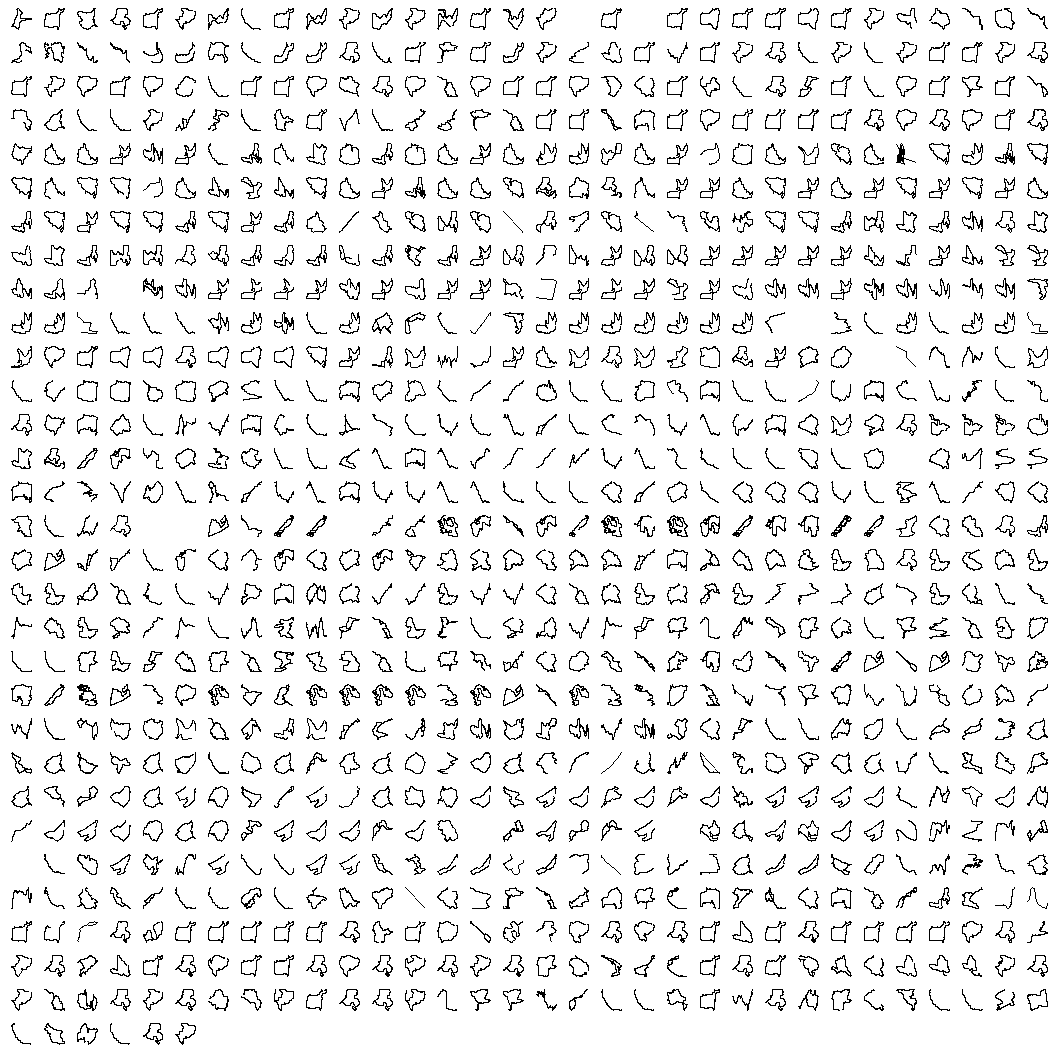
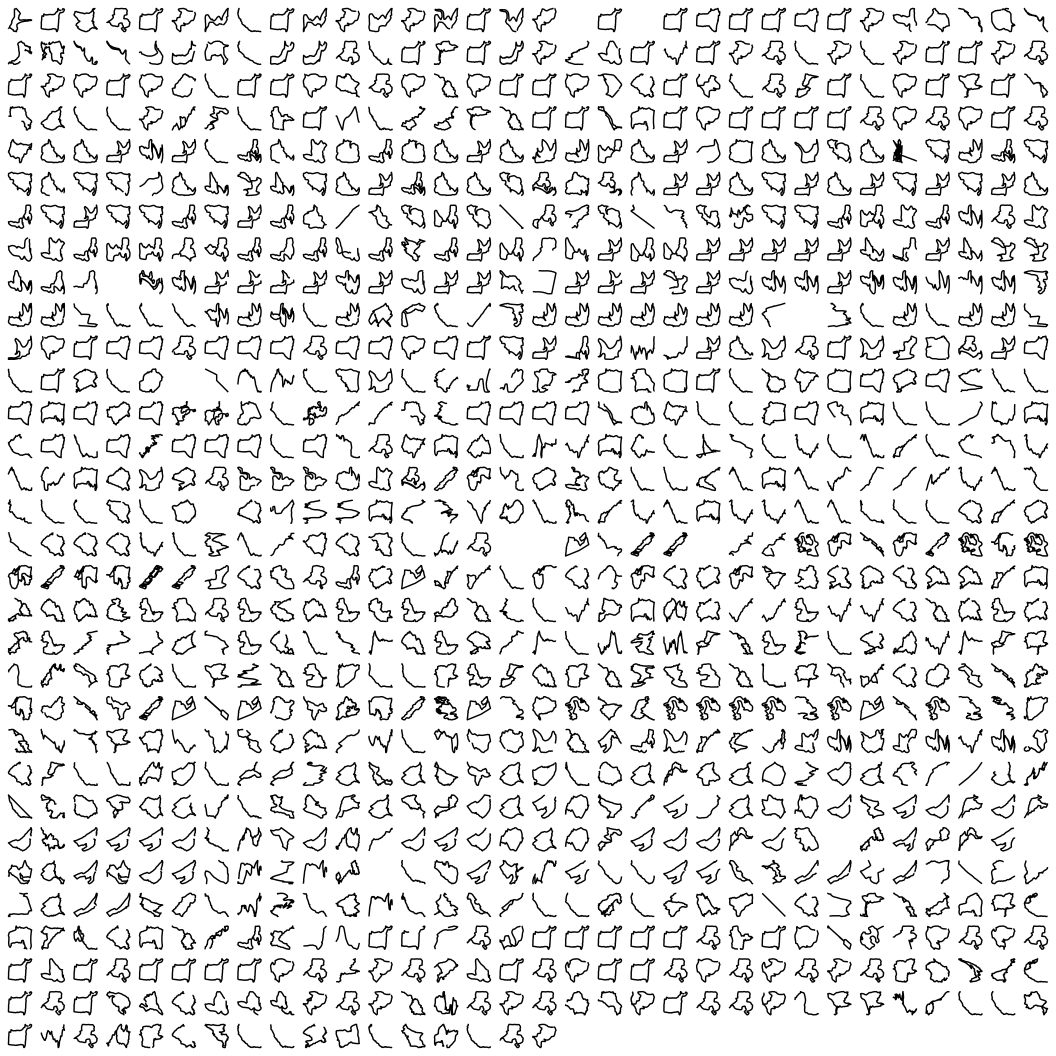
Data Update

Changed region(s): [[0.0, 0.0, 1.0, 1.0]]

diff --git a/README.md b/README.md
@@ -13,7 +13,6 @@ You will need the following packages:
 
     library(shinydashboard)
     library(reactablefmtr)
-    library(Microsoft365R)
     library(tarchetypes)
     library(conflicted)
     library(reactable)
@@ -47,10 +46,10 @@ package. You can learn more about the package and its functionalities
 
 In order to reproduce the analysis, perform the following steps:
 
--   Clone the repository: <https://github.com/duju211/pin_strava>
--   Install the packages listed in the `libraries.R` file
--   Run the target pipeline by executing `targets::tar_make()` command
--   Follow the instructions printed in the console
+- Clone the repository: <https://github.com/duju211/pin_strava>
+- Install the packages listed in the `libraries.R` file
+- Run the target pipeline by executing `targets::tar_make()` command
+- Follow the instructions printed in the console
 
 ## Target Plan
 
@@ -146,26 +145,26 @@ The resulting data frame consists of one row per activity. Make sure
 that all ID columns have a character format and improve the column
 names.
 
-    ## # A tibble: 967 × 58
+    ## # A tibble: 1,010 × 59
     ##    resource_state athlete$id name              distance moving_time elapsed_time
     ##             <int>      <int> <chr>                <dbl>       <int>        <int>
-    ##  1              2   26845822 Hard Fork            5348         2614         2622
-    ##  2              2   26845822 Zeit Verbrechen      5369.        2382         2396
-    ##  3              2   26845822 CopaTS               5399.        2420         2420
-    ##  4              2   26845822 Foggy Vergecast      4994.        2367         2525
-    ##  5              2   26845822 Hello America        5372.        2484         2490
-    ##  6              2   26845822 Alles Gesagt         5416.        2517         2545
-    ##  7              2   26845822 Hard Fork            4586.        2191         2211
-    ##  8              2   26845822 Icy Holy Three K…    5954.        3216         3345
-    ##  9              2   26845822 Icy New Year         4802.        2291         2311
-    ## 10              2   26845822 Wirecard             4598.        2049         2134
-    ## # ℹ 957 more rows
-    ## # ℹ 53 more variables: athlete$resource_state <int>,
+    ##  1              2   26845822 Ct                   5349.        2864         2907
+    ##  2              2   26845822 Crime Time           5409         2929         2999
+    ##  3              2   26845822 Conan needs a fr…    5410         2957         3051
+    ##  4              2   26845822 Hard Fork            5299.        2900         2955
+    ##  5              2   26845822 Vergecast            5402.        2874         3017
+    ##  6              2   26845822 Vergecast            5426.        3090         3228
+    ##  7              2   26845822 Ball you need is…    5324.        2930         2999
+    ##  8              2   26845822 1975                25976.        4593         5067
+    ##  9              2   26845822 Kolibri             12581.        1671         1735
+    ## 10              2   26845822 Ball you need is…    5257.        2768         2793
+    ## # ℹ 1,000 more rows
+    ## # ℹ 54 more variables: athlete$resource_state <int>,
     ## #   total_elevation_gain <dbl>, type <chr>, sport_type <chr>,
-    ## #   workout_type <int>, id <chr>, start_date <dttm>, start_date_local <chr>,
-    ## #   timezone <chr>, utc_offset <dbl>, location_city <lgl>,
-    ## #   location_state <lgl>, location_country <chr>, achievement_count <int>,
-    ## #   kudos_count <int>, comment_count <int>, athlete_count <int>, …
+    ## #   workout_type <int>, device_name <chr>, id <chr>, start_date <dttm>,
+    ## #   start_date_local <chr>, timezone <chr>, utc_offset <dbl>,
+    ## #   location_city <lgl>, location_state <lgl>, location_country <lgl>,
+    ## #   achievement_count <int>, kudos_count <int>, comment_count <int>, …
 
 Extract ids of all activities. Exclude activities which were recorded
 manually, because they don’t include additional data:
@@ -273,6 +272,9 @@ as minimal as possible.
           plot.background = element_blank(),
           strip.text = element_blank())
     }
+
+    ## Warning: Removed 7659 rows containing missing values or values outside the scale range
+    ## (`geom_path()`).
 
 ![](README_files/figure-markdown_strict/gg_strava-1.png)
 
